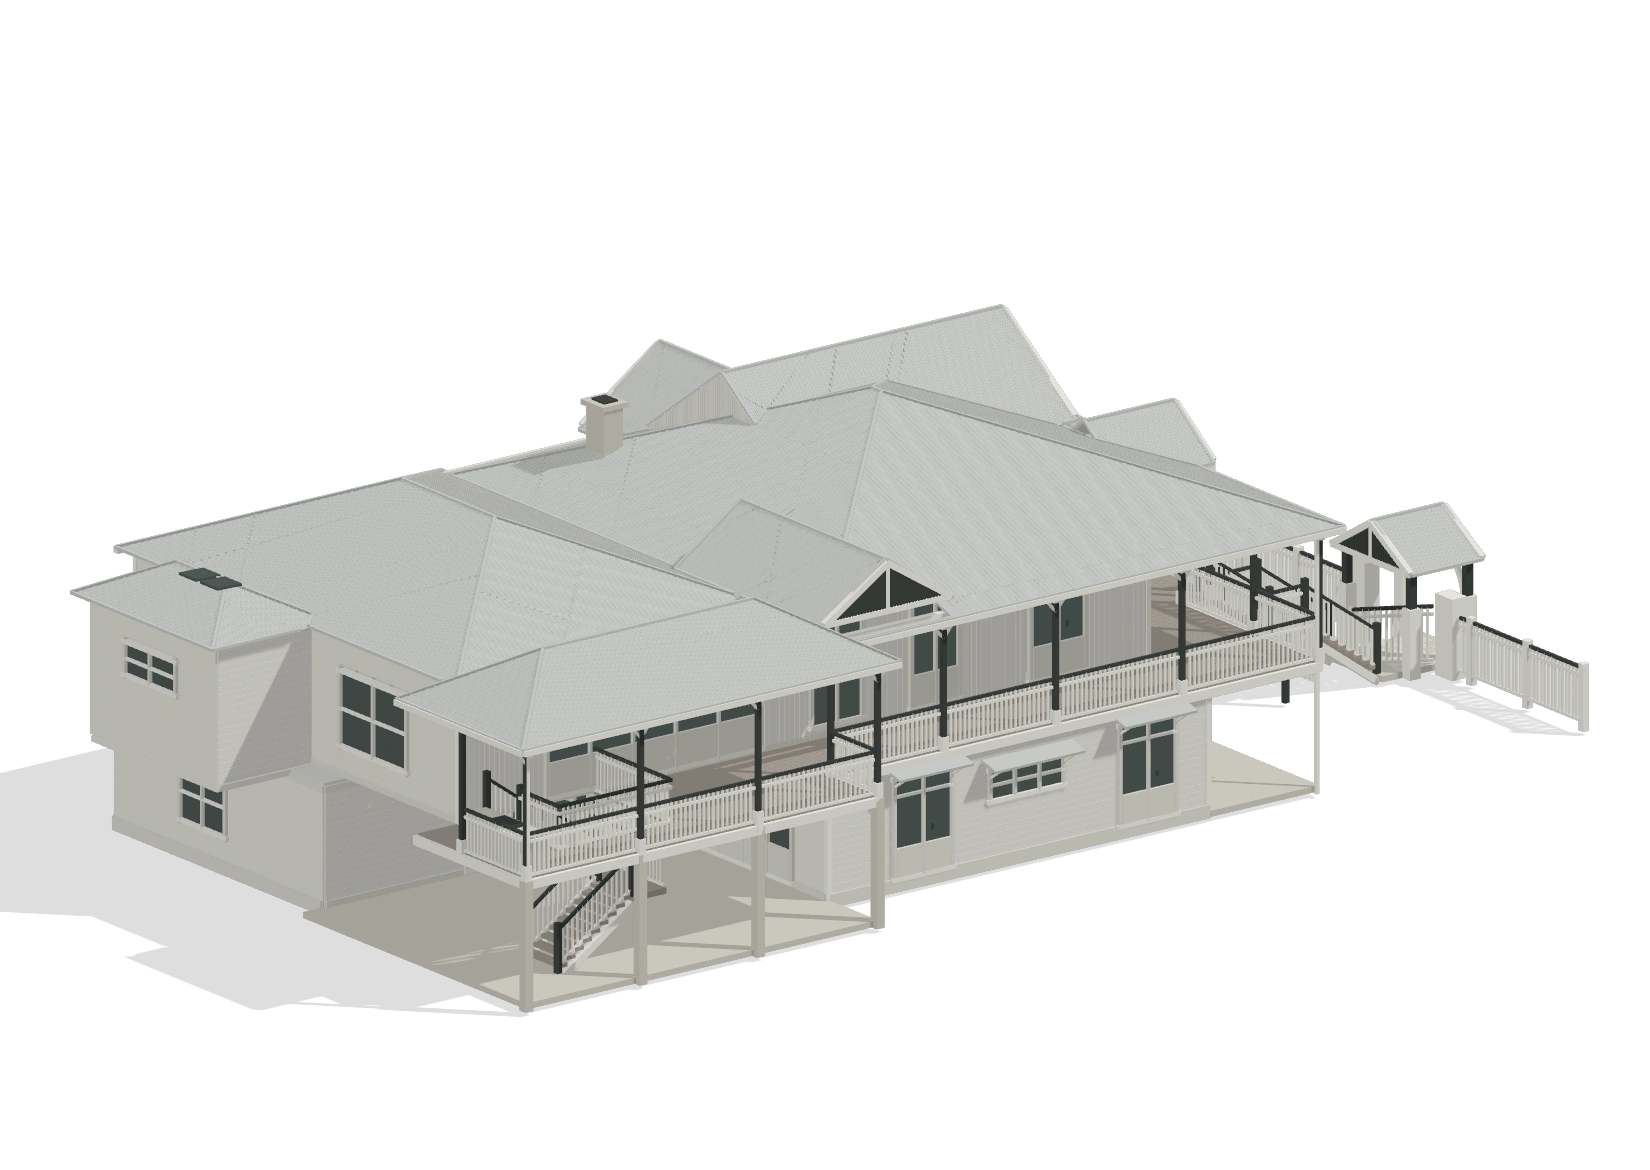
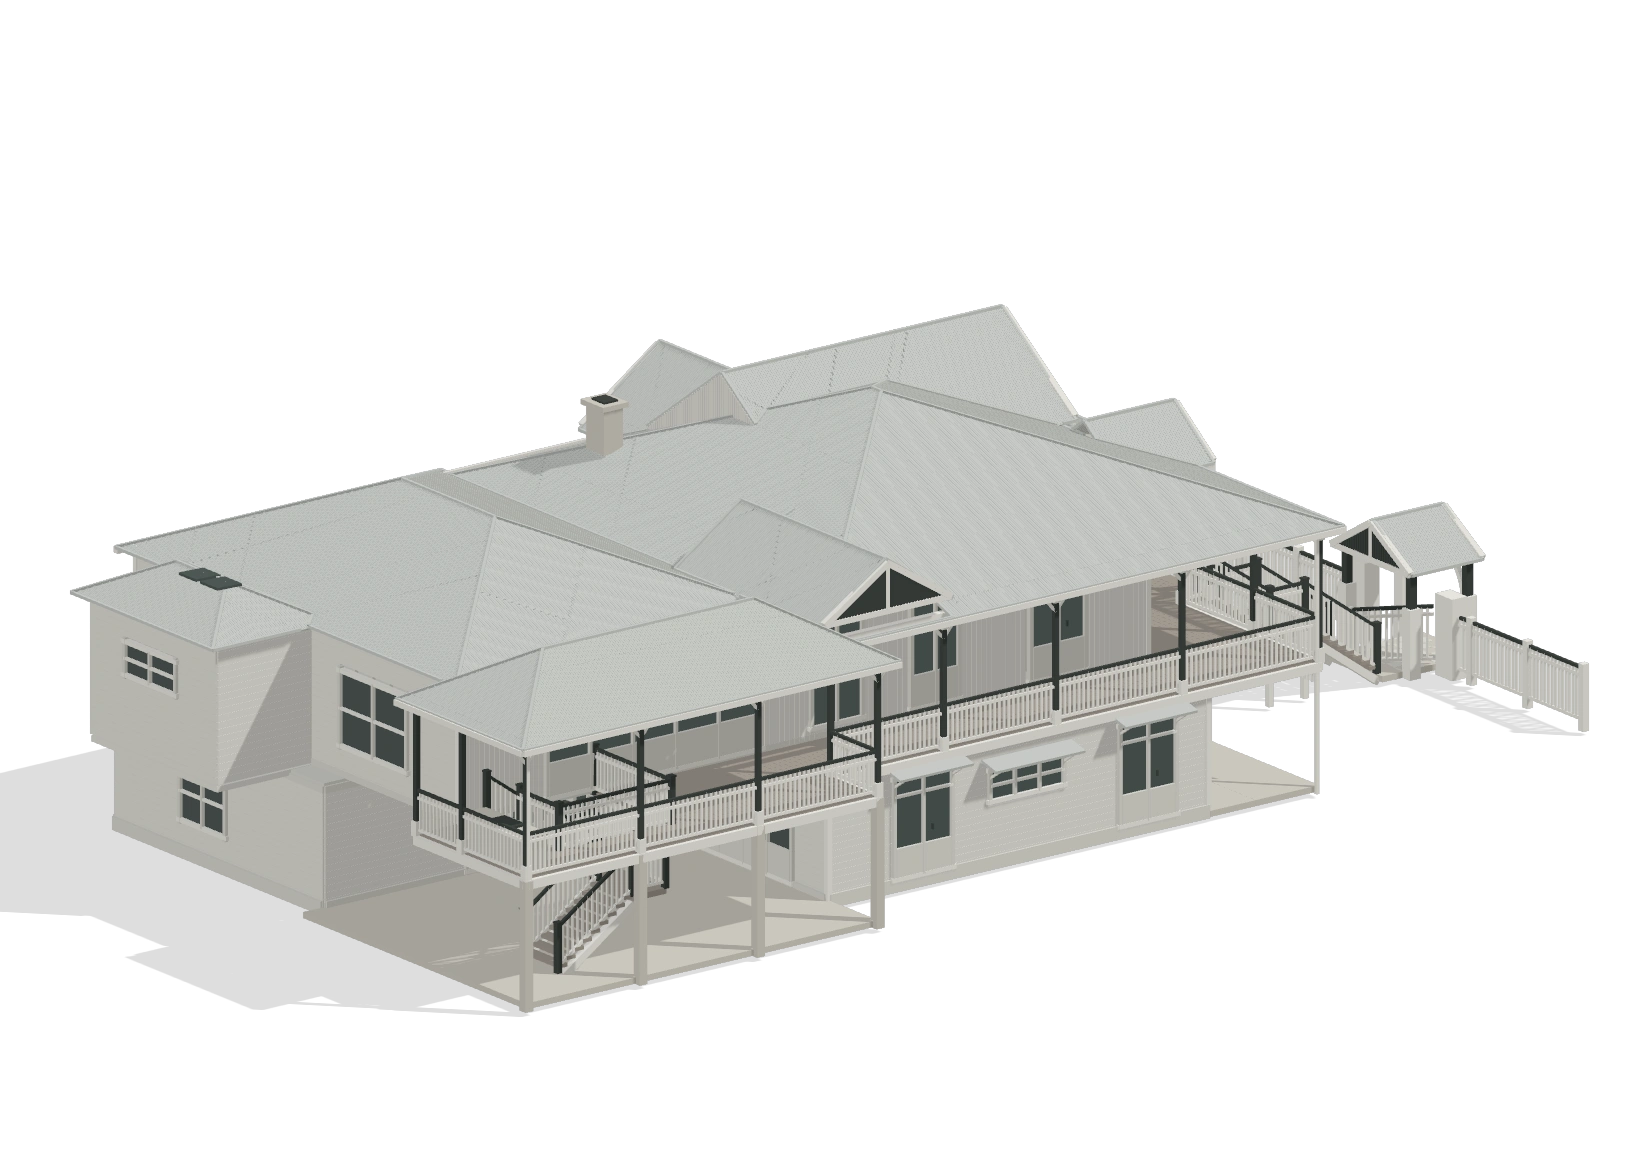
Align Croyde verandah posts and stair handrail junctions

Changed region(s): [[0.4945, 0.4615, 0.8036, 0.6462], [0.2473, 0.6154, 0.4945, 0.7692]]

diff --git a/src/three/frameMembers.ts b/src/three/frameMembers.ts
@@ -19,6 +19,8 @@ type V2=[number,number]
 type Opening={u:number;y:number;w:number;h:number;door?:boolean;panes?:number;hood?:boolean}
 const members:Member[]=[]
 const UP=3.1,EAVE=6.65
+// One height datum for the verandah, stair flights and their landings.
+const HANDRAIL=1.1,LOWER_RAIL=0.16,NEWEL_HEIGHT=1.2
 function box(p:V3,s:V3,mat:MaterialKey,at:number,stage:Member['stage'],extras:Partial<Member>={}) {
   if(s.some(n=>n<=0.0001))return
   members.push({p,s,mat,at,stage,rx:0,outer:true,...extras})
@@ -134,28 +136,36 @@ function bracket(x:number,z:number,axis:'x'|'z',dir:number,top=6.34) {
 }
 function rail(a:V2,b:V2,base=UP+0.08,height=1.02,frieze=false) {
   const dx=b[0]-a[0],dz=b[1]-a[1],len=Math.hypot(dx,dz),n=Math.ceil(len/0.135)
-  for(let i=1;i<n;i++)box([a[0]+dx*i/n,base+height/2,a[1]+dz*i/n],[0.045,height,0.045],'trim',0.89,3)
-  for(const y of frieze?[base+height]:[base+0.04,base+height-0.18])beam([a[0],y,a[1]],[b[0],y,b[1]],0.065,'trim',0.89)
+  const low=frieze?base:base+0.08,high=base+height
+  for(let i=1;i<n;i++)box([a[0]+dx*i/n,(low+high)/2,a[1]+dz*i/n],[0.045,high-low,0.045],'trim',0.89,3)
+  for(const y of frieze?[high]:[low,high-0.18])beam([a[0],y,a[1]],[b[0],y,b[1]],0.065,'trim',0.89)
   if(!frieze)beam([a[0],base+height,a[1]],[b[0],base+height,b[1]],0.075,'accent',0.9)
 }
+function newel(x:number,z:number,floor:number) {
+  box([x,floor+NEWEL_HEIGHT/2,z],[0.14,NEWEL_HEIGHT,0.14],'accent',0.91,3)
+  box([x,floor+NEWEL_HEIGHT,z],[0.17,0.045,0.17],'accent',0.92,3)
+}
+function landingRail(a:V2,b:V2,floor:number) { rail(a,b,floor+0.08,HANDRAIL-0.08) }
 const frontPosts=[-7.25,-4.8,-2.1,0.7,3.65,7.25]
 frontPosts.forEach(x=>{post(x,10);for(const d of [-1,1])if(Math.abs(x+d*0.5)<7.3)bracket(x,10,'x',d)})
 for(let i=0;i<frontPosts.length-1;i++) {
-  const a=frontPosts[i]+0.09,b=frontPosts[i+1]-0.09
+  // Rails meet the post centreline, rather than stopping short of its face.
+  const a=frontPosts[i],b=frontPosts[i+1]
   if(i!==2)rail([a,10],[b,10]) // Real opening at the stair entrance.
   rail([a,10],[b,10],UP-0.52,0.36,true)
 }
 for(const z of [3.9,6.9])post(7.25,z)
-rail([7.25,4],[7.25,6.8]);rail([7.25,7],[7.25,9.9])
+rail([7.25,3.9],[7.25,6.9]);rail([7.25,6.9],[7.25,10])
 const gardenPosts=[-3.9,-0.7,2.5,6.1,10]
 gardenPosts.slice(0,-1).forEach(z=>{post(-7.25,z);bracket(-7.25,z,'z',1);bracket(-7.25,z,'z',-1)})
-for(let i=0;i<gardenPosts.length-1;i++)rail([-7.25,gardenPosts[i]+0.09],[-7.25,gardenPosts[i+1]-0.09])
+for(let i=0;i<gardenPosts.length-1;i++)rail([-7.25,gardenPosts[i]],[-7.25,gardenPosts[i+1]])
 for(const z of [-13.9,-10.65,-7.3,-3.9]) {
   post(-9,z,6.4);box([-9,UP/2,z],[0.22,UP,0.22],'ground',0.31,1)
   bracket(-9,z,'z',1,6.4);bracket(-9,z,'z',-1,6.4)
 }
-for(const [a,b] of [[-13.8,-10.74],[-10.56,-7.39],[-7.21,-4]])rail([-9,a],[-9,b])
-rail([-8.9,-3.9],[-7.34,-3.9]);rail([-8.9,-13.9],[-6.7,-13.9]);post(-6.6,-13.9,6.4)
+for(const [a,b] of [[-13.9,-10.65],[-10.65,-7.3],[-7.3,-3.9]])rail([-9,a],[-9,b])
+rail([-9,-3.9],[-7.25,-3.9]);rail([-9,-13.9],[-6.6,-13.9]);rail([-6.6,-13.9],[-4.9,-13.9])
+post(-6.6,-13.9,6.4);post(-4.9,-13.9,6.4)
 for(const [a,b] of [[[-7.25,10],[7.25,10]],[[-7.25,10],[-7.25,-3.9]],[[7.25,10],[7.25,3.9]],[[-9,-3.9],[-9,-13.9]],[[-9,-3.9],[-7.25,-3.9]],[[-9,-13.9],[-4.9,-13.9]]] as [V2,V2][]) {
   for(const y of [UP-0.08,6.35])beam([a[0],y,a[1]],[b[0],y,b[1]],y<4?0.22:0.18,'trim',0.86)
 }
@@ -166,23 +176,35 @@ function stair(x:number,z1:number,z2:number,y1:number,y2:number,width:number,n:n
   for(const side of [-1,1]) {
     const xx=x+side*(width/2-0.04)
     beam([xx,y1-0.18,z1],[xx,y2-0.18,z2],0.18,'trim',0.85)
-    beam([xx,y1+1.03,z1],[xx,y2+1.03,z2],0.075,'accent',0.91)
-    beam([xx,y1+0.16,z1],[xx,y2+0.16,z2],0.075,'trim',0.91)
+    beam([xx,y1+HANDRAIL,z1],[xx,y2+HANDRAIL,z2],0.075,'accent',0.91)
+    beam([xx,y1+LOWER_RAIL,z1],[xx,y2+LOWER_RAIL,z2],0.075,'trim',0.91)
     const count=Math.ceil(Math.abs(z2-z1)/0.14)
-    for(let j=1;j<count;j++)box([xx,y1+(y2-y1)*j/count+0.59,z1+(z2-z1)*j/count],[0.045,0.87,0.045],'trim',0.91,3)
-    for(const [z,y] of [[z1,y1],[z2,y2]])box([xx,y+0.6,z],[0.14,1.2,0.14],'accent',0.91,3)
+    for(let j=1;j<count;j++)box([xx,y1+(y2-y1)*j/count+(LOWER_RAIL+HANDRAIL)/2,z1+(z2-z1)*j/count],[0.045,HANDRAIL-LOWER_RAIL,0.045],'trim',0.91,3)
+    for(const [z,y] of [[z1,y1],[z2,y2]])newel(xx,z,y)
   }
 }
 const ENTRY=-0.7
 stair(ENTRY,10.85,12.9,UP,1.65,1.85,9)
 slab(ENTRY-0.93,ENTRY+0.93,12.9,13.9,1.61,'deck',0.86)
-for(const x of [ENTRY-0.89,ENTRY+0.89]){rail([x,12.95],[x,13.85],1.71,0.98);box([x,0.83,13.35],[0.13,1.66,0.13],'accent',0.84,3)}
+for(const side of [-1,1]) {
+  const x=ENTRY+side*(1.85/2-0.04),porticoX=ENTRY+side*1.4
+  landingRail([porticoX,10],[porticoX,10.8],UP)
+  landingRail([porticoX,10.8],[x,10.85],UP)
+  landingRail([x,12.9],[x,13.9],1.65)
+  for(const z of [12.9,13.9])box([x,0.79,z],[0.13,1.58,0.13],'trim',0.84,3)
+}
 stair(ENTRY,13.9,15.95,1.65,0.18,1.85,9)
 slab(ENTRY-1.13,ENTRY+1.13,15.93,16.5,0.1,'ground',0.9)
 stair(-5.65,-12,-9.9,UP,1.6,1.35,9);slab(-7.74,-4.94,-9.9,-8.95,1.55,'deck',0.86)
-stair(-7.05,-9.9,-12,1.6,0.18,1.35,9);rail([-4.94,-8.98],[-7.7,-8.98],1.64,0.98)
-rail([-7.83,-12.08],[-7.83,-8.88]);rail([-7.83,-8.88],[-4.95,-8.88])
-rail([-7.83,-12.08],[-6.35,-12.08])
+stair(-7.05,-9.9,-12,1.6,0.18,1.35,9)
+// Continuous guard around the rear landing and upstairs stairwell. The two
+// flights share the landing datum and leave the walking route unobstructed.
+for(const [a,b] of [[[-5.015,-9.9],[-4.94,-8.95]],[[-4.94,-8.95],[-7.685,-8.95]],[[-7.685,-8.95],[-7.685,-9.9]],[[-6.285,-9.9],[-6.415,-9.9]]] as [V2,V2][])
+  landingRail(a,b,1.6)
+for(const x of [-4.94,-7.685])newel(x,-8.95,1.6)
+for(const [a,b] of [[[-7.83,-12.08],[-7.83,-8.88]],[[-7.83,-8.88],[-4.95,-8.88]],[[-7.83,-12.08],[-6.285,-12.08]],[[-6.285,-12.08],[-6.285,-12]]] as [V2,V2][])
+  landingRail(a,b,UP)
+for(const [x,z] of [[-7.83,-12.08],[-7.83,-8.88],[-4.95,-8.88]])newel(x,z,UP)
 box([-7.65,UP+0.44,-13.48],[2.3,0.85,0.65],'joinery',0.9,3)
 box([-7.65,UP+0.9,-13.48],[2.4,0.07,0.73],'ground',0.91,3)
 box([-7.7,UP+0.96,-13.45],[0.8,0.06,0.45],'accent',0.93,3)
@@ -314,8 +336,10 @@ gableDetail('x',7.59,2.5,2.19,6.79,8.3)
 gableDetail('x',-7.64,-2.6,1.8,6.94,8.08)
 gableDetail('z',10.89,ENTRY,1.4,6.38,7.4)
 // Segmented timber arches, not a flat icon on the model.
-for(const z of [10.05,10.8]) {
-  for(const x of [-2.1,0.7])post(x,z,6.4)
+for(const z of [10,10.8]) {
+  // The rear pair already belongs to frontPosts. Duplicating it 5 cm forward
+  // made the entry posts overlap and flicker against their white capitals.
+  if(z===10.8)for(const x of [-2.1,0.7])post(x,z,6.4)
   const r=1.18,cy=5.32
   for(let i=0;i<22;i++) {
     const a=i*Math.PI/22,b=(i+1)*Math.PI/22

diff --git a/README.md b/README.md
@@ -1453,6 +1453,13 @@ An optional `-OutputDirectory` keeps review renders outside the source assets;
 `-Progress` renders an intermediate build stage. The separate interactive
 renovation model on Approach is unchanged.
 
+The 5 November railing correction removes overlapping entry posts, connects
+verandah rails to post centrelines and uses a shared handrail height across the
+stair flights and landings. Short guarded returns connect the projecting entry
+porch to the front stair; the rear stairwell has supported corners and a complete
+landing guard. The charcoal trim remains part of the photographed house's
+palette. Both fallback renders are regenerated after these geometry corrections.
+
 ### Temporary heritage explorer concept
 
 Approach includes `HeritageExplorerTest` immediately after MaterialKey, labelled
